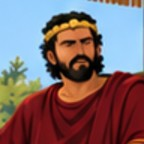
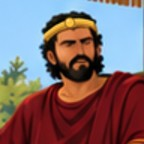
art: Ahab's circlet on the mountain, retouched to his cast sheet's band (50a, #50) (#51)
* art: Ahab's circlet on Baal's altar retouched to his cast sheet's flat band with a central disc; c2 re-cropped at the same square (50a, #50)

* docs: the circlet's edit and retouch in the mountain's scene briefs; the v0.8.1 changelog line (50a, #50)

---------

Changed region(s): [[0.3056, 0.1111, 0.6667, 0.2778]]

diff --git a/src/cases/carmel/scenes.md b/src/cases/carmel/scenes.md
@@ -118,6 +118,20 @@ the width of the prophets' altar, which reads as something built and thrown down
 sent the two changes as two edits, one at a time; each redrew the whole picture, kept under half
 its fine detail, lost Elijah's grin, and came back wider than 4:5, so it was discarded.
 
+The accepted picture gave Ahab a beaded band, not his cast sheet's flat band with round discs
+(#50). **Edit 2**, the circlet, sent to the accepted picture after 30a merged:
+
+```
+Same picture, with only one change: make King Ahab's circlet match his cast sheet, a flat gold band around his head with round gold discs set along it and the largest disc at the center of his forehead. Keep everything else exactly as it is.
+```
+
+It came back with the circlet right but the whole picture redrawn and re-framed, everything smaller
+and the scene moved, so it was not used as a picture. Instead the circlet was retouched in the
+accepted picture itself, following that result and the cast sheet: the beads along its top edge
+were painted over with hair, and a flat gold band with a central disc was painted in their place.
+The retouch changed 621 pixels, all inside x 937–981, y 90–117 of the 1122 × 1402 picture. Nothing
+else moved, so the boxes stand as fitted, and `c2` is re-cropped from the retouched picture.
+
 ## water — The water
 
 **Scene.** Early afternoon. The sun stands high in the west, at the upper right, and the daylight
@@ -232,4 +246,5 @@ Each portrait is a 144 × 144 crop, head and shoulders, from the accepted pictur
 (1122 × 1402):
 
 - `c1`, Elijah, from _The water_'s `caller`: the 120 px square at 112, 245.
-- `c2`, Ahab, from _Baal's altar_'s `king`: the 96 px square at 912, 84.
+- `c2`, Ahab, from _Baal's altar_'s `king`: the 96 px square at 912, 84, re-cropped from the
+  retouched picture (#50).

diff --git a/CHANGELOG.md b/CHANGELOG.md
@@ -3,6 +3,13 @@
 Entries run in one list in version order, newest first; within a version, by PR number. A version
 is reserved when its entry is created, at the PR's open, so a lower number may land later.
 
+## v0.8.1 — Ahab's circlet on the mountain (#50)
+
+- **50a — the circlet retouched** (#51): on Baal's altar, Ahab wears his cast sheet's flat gold
+  band with a central disc, retouched in place in the accepted picture — 621 pixels, nothing else
+  moved — and fitted as before; his portrait re-cropped at the same square; the boxes unchanged
+  and check (l) passing; the circlet's edit and retouch recorded in the scene briefs.
+
 ## v0.8.0 — Gate 08, the mountain (#30)
 
 - **30a — the mountain** (#49): case two, the contest on Mount Carmel, 1 Kings 18:17–40, between
